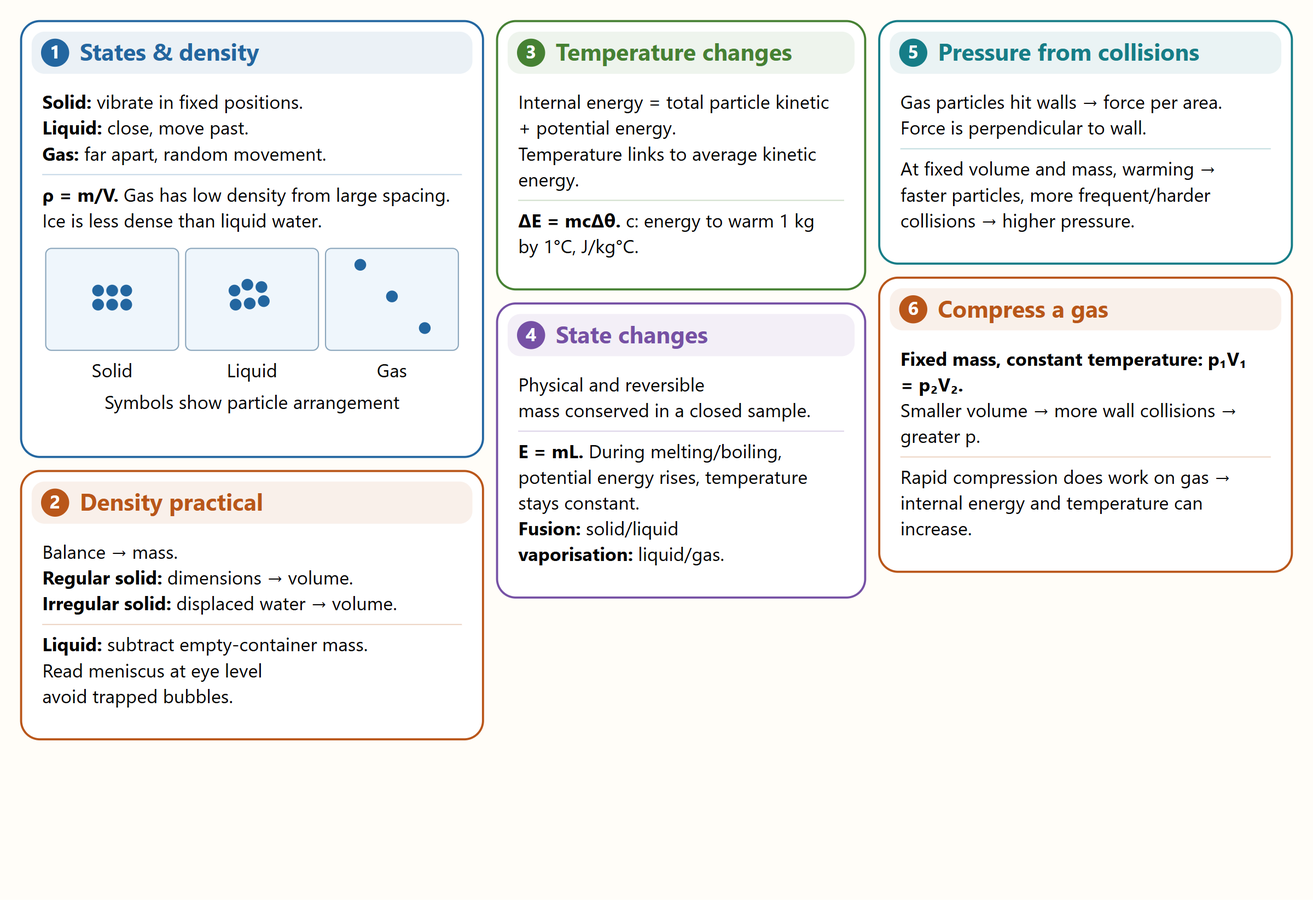
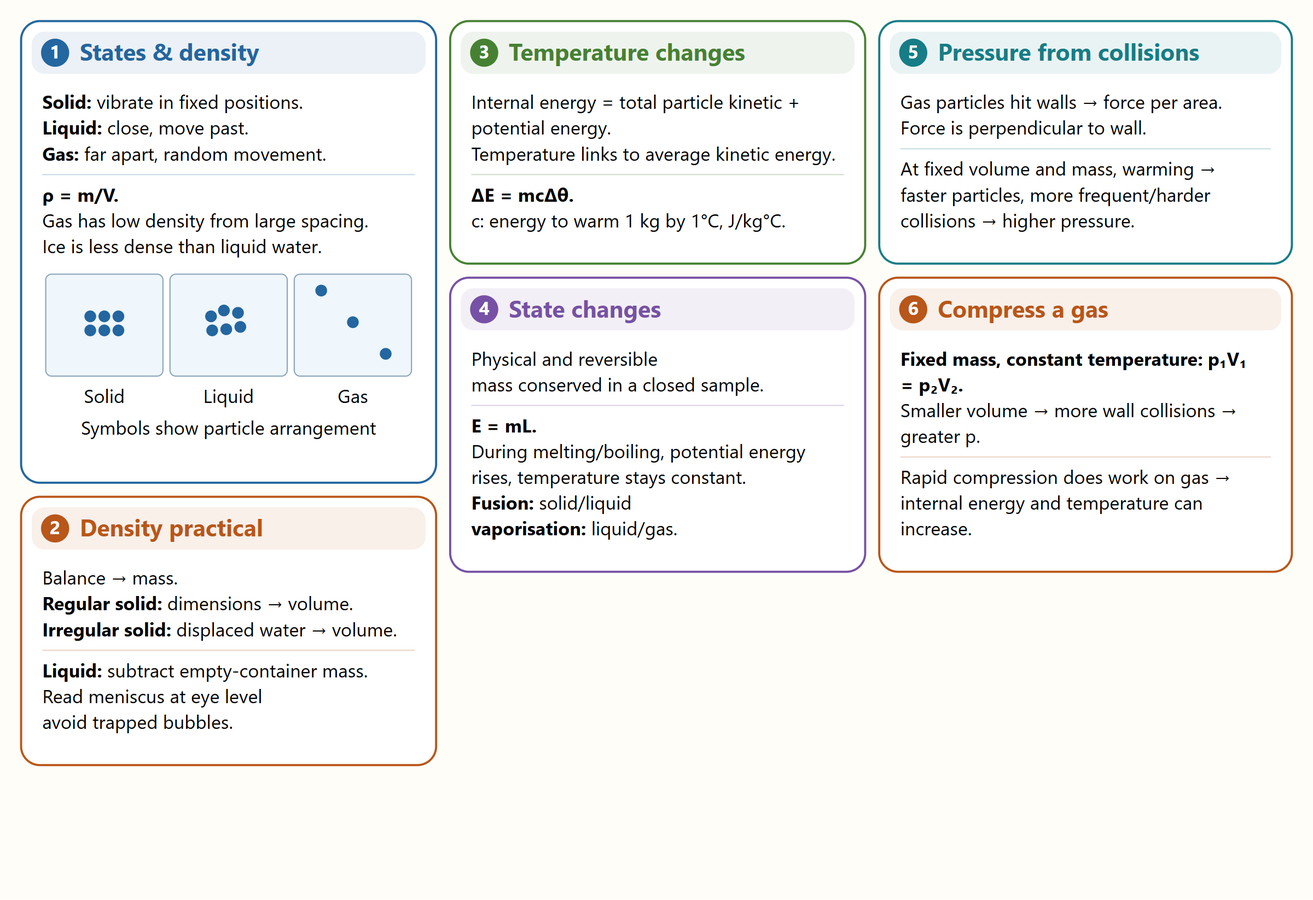
fix: review physics 03 mind-map equation layouts

diff --git a/library/resources/physics-aqa-particle-model-of-matter-01-states-and-density.html b/library/resources/physics-aqa-particle-model-of-matter-01-states-and-density.html
@@ -1,32 +1,48 @@
 <!doctype html><html lang="en"><head><meta charset="utf-8"><meta name="viewport" content="width=device-width, initial-scale=1"><title>States and density mind map · Study Buddy</title><link rel="stylesheet" href="../style.css"><link rel="stylesheet" href="../mindmaps.css"><script defer src="../mindmaps.js"></script></head><body class="inner-page subject-physics"><a class="skip" href="#main">Skip to content</a><header><a class="brand" href="../../index.html"><span class="brand-mark">G</span><span class="brand-name">Study Buddy</span></a><span class="exam">Summer 2027</span></header><div class="layout"><aside><p class="eyebrow">YOUR SUBJECTS</p><nav aria-label="Subjects"><a class="" href="../../Computer%20Science%20-%20AQA/index.html">Computer Science</a><a class="" href="../../English%20Language%20-%20Eduqas/index.html">English Language</a><a class="" href="../../English%20Literature%20-%20Eduqas/index.html">English Literature</a><a class="" href="../../Maths%20-%20Edexcel/index.html">Maths</a><a class="" href="../../Geography%20-%20OCR%20A/index.html">Geography</a><a class="" href="../../French%20-%20AQA/index.html">French</a><a class="" href="../../Biology%20-%20AQA/index.html">Biology</a><a class="" href="../../Chemistry%20-%20AQA/index.html">Chemistry</a><a class="selected" href="../../Physics%20-%20AQA/index.html">Physics</a></nav><p class="side-note">Build understanding.<br>Practise precise answers.</p></aside><main id="main"><nav class="breadcrumbs" aria-label="Breadcrumb"><a href="../../index.html">Subjects</a><span aria-hidden="true"> / </span><a href="../../Physics%20-%20AQA/index.html">Physics</a><span aria-hidden="true"> / </span><a href="../../Physics%20-%20AQA/03%20-%20Particle%20model%20of%20matter/index.html">Particle model of matter</a><span aria-hidden="true"> / </span><a href="physics-aqa-particle-model-of-matter-mind-maps.html">Mind maps</a></nav><div class="reader-tools"><a href="physics-aqa-particle-model-of-matter-mind-maps.html">← Back to mind maps</a><button onclick="window.print()">Print</button></div><h1>States and density</h1><button type="button" class="mindmap-open" data-mindmap-index="1">Open full screen</button><figure class="mindmap-view"><img src="../../Physics%20-%20AQA/03%20-%20Particle%20model%20of%20matter/Mind%20Maps/01-states-and-density.svg" alt="States and density revision map"></figure><details class="mindmap-text" id="text-version"><summary>Text version</summary><article class="reading"><h1>States &amp; density</h1>
 <h2>Three states</h2>
 <ul>
-<li>Solid: close, fixed arrangement; vibration. Liquid: close, irregular, able to flow.</li>
-<li>Gas: widely spaced, random motion; easily compressed. Individual particles do not expand when heated.</li>
+<li>Solid: close, fixed arrangement</li>
+<li>vibration.</li>
+<li>Liquid: close, irregular, able to flow.</li>
+<li>Gas: widely spaced, random motion</li>
+<li>easily compressed. Individual particles do not expand when heated.</li>
 </ul>
 <h2>Physical changes</h2>
 <ul>
-<li>Melting/freezing; boiling or evaporation/condensation; sublimation solid → gas.</li>
-<li>No new substance; reversing restores properties. Open-container mass loss may be escaping vapour.</li>
+<li>Melting/freezing</li>
+<li>boiling or evaporation/condensation</li>
+<li>sublimation solid → gas.</li>
+<li>No new substance</li>
+<li>reversing restores properties. Open-container mass loss may be escaping vapour.</li>
 </ul>
 <h2>Regular &amp; irregular solids</h2>
 <ul>
-<li>Weigh solid. Cuboid volume = lwh; cylinder = πr²h. Use ruler, callipers or micrometer.</li>
-<li>Irregular: fully submerge; final water volume − initial = solid volume. Displacement can is an alternative.</li>
+<li>Weigh solid.</li>
+<li>Cuboid volume = lwh</li>
+<li>cylinder = πr²h.</li>
+<li>Use ruler, callipers or micrometer.</li>
+<li>Irregular: fully submerge</li>
+<li>final water volume − initial = solid volume.</li>
+<li>Displacement can is an alternative.</li>
 </ul>
 <h2>Liquids &amp; good readings</h2>
 <ul>
 <li>Weigh empty dry cylinder, then cylinder + liquid. Subtract to find liquid mass.</li>
-<li>Read meniscus at eye level. Avoid bubbles/splashes; unsuitable for solids that dissolve or absorb water.</li>
+<li>Read meniscus at eye level. Avoid bubbles/splashes</li>
+<li>unsuitable for solids that dissolve or absorb water.</li>
 </ul>
 <h2>Density equation</h2>
 <ul>
-<li><strong>ρ = m/V; m = ρV; V = m/ρ.</strong></li>
+<li><strong>ρ = m/V</strong></li>
+<li><strong>m = ρV</strong></li>
+<li><strong>V = m/ρ.</strong></li>
 <li>240 g / 80 cm³ = 3.0 g/cm³ = <strong>3,000 kg/m³</strong>.</li>
-<li>1 cm³ = 10⁻⁶ m³. Keep units consistent.</li>
+<li>1 cm³ = 10⁻⁶ m³.</li>
+<li>Keep units consistent.</li>
 </ul>
 <h2>Explain changes</h2>
 <ul>
 <li>Fixed mass spreads over larger volume → lower density. Gas spacing explains low density.</li>
-<li>Do not claim every solid is denser than its liquid: ice is an exception. Repeats assess random variation; check zero errors.</li>
+<li>Do not claim every solid is denser than its liquid: ice is an exception. Repeats assess random variation</li>
+<li>check zero errors.</li>
 </ul></article></details><footer>GCSE preparation · 2027 · Your personal revision library</footer></main></div><script type="application/json" id="mindmap-catalog">[{"title": "Particle model overview", "image": "../../Physics%20-%20AQA/03%20-%20Particle%20model%20of%20matter/Mind%20Maps/00-particle-model-overview.svg", "thumbnail": "../../Physics%20-%20AQA/03%20-%20Particle%20model%20of%20matter/Mind%20Maps/00-particle-model-overview.png", "page": "physics-aqa-particle-model-of-matter-00-particle-model-overview.html"}, {"title": "States and density", "image": "../../Physics%20-%20AQA/03%20-%20Particle%20model%20of%20matter/Mind%20Maps/01-states-and-density.svg", "thumbnail": "../../Physics%20-%20AQA/03%20-%20Particle%20model%20of%20matter/Mind%20Maps/01-states-and-density.png", "page": "physics-aqa-particle-model-of-matter-01-states-and-density.html"}, {"title": "Heating and gas pressure", "image": "../../Physics%20-%20AQA/03%20-%20Particle%20model%20of%20matter/Mind%20Maps/02-heating-and-gas-pressure.svg", "thumbnail": "../../Physics%20-%20AQA/03%20-%20Particle%20model%20of%20matter/Mind%20Maps/02-heating-and-gas-pressure.png", "page": "physics-aqa-particle-model-of-matter-02-heating-and-gas-pressure.html"}]</script><dialog class="mindmap-dialog" id="mindmap-dialog" aria-labelledby="mindmap-dialog-title"><div class="mindmap-toolbar"><h2 id="mindmap-dialog-title">Mind maps</h2><div class="mindmap-controls"><button type="button" data-map-action="gallery">← All maps</button><span class="mindmap-sequence"><button type="button" data-map-action="previous" aria-label="Previous mind map">← Previous</button><output id="mindmap-position" aria-label="Mind map position" aria-live="polite"></output><button type="button" data-map-action="next" aria-label="Next mind map">Next →</button></span><span class="mindmap-zoom-controls"><button type="button" data-map-action="out" aria-label="Zoom out">−</button><output id="mindmap-zoom" aria-label="Zoom level" aria-live="polite">100%</output><button type="button" data-map-action="in" aria-label="Zoom in">+</button><button type="button" data-map-action="fit">Fit</button><button type="button" data-map-action="actual">100%</button></span><a id="mindmap-text-link" href="#">Text version</a><button type="button" data-map-action="print">Print</button><button type="button" data-map-action="close" aria-label="Close mind map">Close ×</button></div></div><div class="mindmap-modal-gallery"><div class="mindmap-grid"></div></div><div class="mindmap-canvas" tabindex="0" aria-label="Mind map; use zoom buttons and scroll to explore"><div class="mindmap-stage"><img id="mindmap-full-image" alt="" draggable="false"></div></div><p class="mindmap-load-error" role="alert" hidden>Unable to load this map. <a href="#">Open the map page</a></p></dialog></body></html>

diff --git a/library/resources/physics-aqa-particle-model-of-matter-00-particle-model-overview.html b/library/resources/physics-aqa-particle-model-of-matter-00-particle-model-overview.html
@@ -1,23 +1,34 @@
 <!doctype html><html lang="en"><head><meta charset="utf-8"><meta name="viewport" content="width=device-width, initial-scale=1"><title>Particle model overview mind map · Study Buddy</title><link rel="stylesheet" href="../style.css"><link rel="stylesheet" href="../mindmaps.css"><script defer src="../mindmaps.js"></script></head><body class="inner-page subject-physics"><a class="skip" href="#main">Skip to content</a><header><a class="brand" href="../../index.html"><span class="brand-mark">G</span><span class="brand-name">Study Buddy</span></a><span class="exam">Summer 2027</span></header><div class="layout"><aside><p class="eyebrow">YOUR SUBJECTS</p><nav aria-label="Subjects"><a class="" href="../../Computer%20Science%20-%20AQA/index.html">Computer Science</a><a class="" href="../../English%20Language%20-%20Eduqas/index.html">English Language</a><a class="" href="../../English%20Literature%20-%20Eduqas/index.html">English Literature</a><a class="" href="../../Maths%20-%20Edexcel/index.html">Maths</a><a class="" href="../../Geography%20-%20OCR%20A/index.html">Geography</a><a class="" href="../../French%20-%20AQA/index.html">French</a><a class="" href="../../Biology%20-%20AQA/index.html">Biology</a><a class="" href="../../Chemistry%20-%20AQA/index.html">Chemistry</a><a class="selected" href="../../Physics%20-%20AQA/index.html">Physics</a></nav><p class="side-note">Build understanding.<br>Practise precise answers.</p></aside><main id="main"><nav class="breadcrumbs" aria-label="Breadcrumb"><a href="../../index.html">Subjects</a><span aria-hidden="true"> / </span><a href="../../Physics%20-%20AQA/index.html">Physics</a><span aria-hidden="true"> / </span><a href="../../Physics%20-%20AQA/03%20-%20Particle%20model%20of%20matter/index.html">Particle model of matter</a><span aria-hidden="true"> / </span><a href="physics-aqa-particle-model-of-matter-mind-maps.html">Mind maps</a></nav><div class="reader-tools"><a href="physics-aqa-particle-model-of-matter-mind-maps.html">← Back to mind maps</a><button onclick="window.print()">Print</button></div><h1>Particle model overview</h1><button type="button" class="mindmap-open" data-mindmap-index="0">Open full screen</button><figure class="mindmap-view"><img src="../../Physics%20-%20AQA/03%20-%20Particle%20model%20of%20matter/Mind%20Maps/00-particle-model-overview.svg" alt="Particle model overview revision map"></figure><details class="mindmap-text" id="text-version"><summary>Text version</summary><article class="reading"><h1>Particle model overview</h1>
 <h2>States &amp; density</h2>
 <ul>
-<li>Solid: vibrate in fixed positions. Liquid: close, move past. Gas: far apart, random movement.</li>
-<li><strong>ρ = m/V.</strong> Gas has low density from large spacing. Ice is less dense than liquid water.</li>
+<li>Solid: vibrate in fixed positions.</li>
+<li>Liquid: close, move past.</li>
+<li>Gas: far apart, random movement.</li>
+<li><strong>ρ = m/V.</strong></li>
+<li>Gas has low density from large spacing.</li>
+<li>Ice is less dense than liquid water.</li>
 </ul>
 <h2>Density practical</h2>
 <ul>
 <li>Balance → mass. Regular solid: dimensions → volume. Irregular solid: displaced water → volume.</li>
-<li>Liquid: subtract empty-container mass. Read meniscus at eye level; avoid trapped bubbles.</li>
+<li>Liquid: subtract empty-container mass. Read meniscus at eye level</li>
+<li>avoid trapped bubbles.</li>
 </ul>
 <h2>Temperature changes</h2>
 <ul>
-<li>Internal energy = total particle kinetic + potential energy. Temperature links to average kinetic energy.</li>
-<li><strong>ΔE = mcΔθ.</strong> c: energy to warm 1 kg by 1°C, J/kg°C.</li>
+<li>Internal energy = total particle kinetic + potential energy.</li>
+<li>Temperature links to average kinetic energy.</li>
+<li><strong>ΔE = mcΔθ.</strong></li>
+<li>c: energy to warm 1 kg by 1°C, J/kg°C.</li>
 </ul>
 <h2>State changes</h2>
 <ul>
-<li>Physical and reversible; mass conserved in a closed sample.</li>
-<li><strong>E = mL.</strong> During melting/boiling, potential energy rises, temperature stays constant. Fusion: solid/liquid; vaporisation: liquid/gas.</li>
+<li>Physical and reversible</li>
+<li>mass conserved in a closed sample.</li>
+<li><strong>E = mL.</strong></li>
+<li>During melting/boiling, potential energy rises, temperature stays constant.</li>
+<li>Fusion: solid/liquid</li>
+<li>vaporisation: liquid/gas.</li>
 </ul>
 <h2>Pressure from collisions</h2>
 <ul>
@@ -26,6 +37,7 @@
 </ul>
 <h2>Compress a gas</h2>
 <ul>
-<li>Fixed mass, constant temperature: <strong>p₁V₁ = p₂V₂</strong>. Smaller volume → more wall collisions → greater p.</li>
+<li>Fixed mass, constant temperature: <strong>p₁V₁ = p₂V₂</strong>.</li>
+<li>Smaller volume → more wall collisions → greater p.</li>
 <li>Rapid compression does work on gas → internal energy and temperature can increase.</li>
 </ul></article></details><footer>GCSE preparation · 2027 · Your personal revision library</footer></main></div><script type="application/json" id="mindmap-catalog">[{"title": "Particle model overview", "image": "../../Physics%20-%20AQA/03%20-%20Particle%20model%20of%20matter/Mind%20Maps/00-particle-model-overview.svg", "thumbnail": "../../Physics%20-%20AQA/03%20-%20Particle%20model%20of%20matter/Mind%20Maps/00-particle-model-overview.png", "page": "physics-aqa-particle-model-of-matter-00-particle-model-overview.html"}, {"title": "States and density", "image": "../../Physics%20-%20AQA/03%20-%20Particle%20model%20of%20matter/Mind%20Maps/01-states-and-density.svg", "thumbnail": "../../Physics%20-%20AQA/03%20-%20Particle%20model%20of%20matter/Mind%20Maps/01-states-and-density.png", "page": "physics-aqa-particle-model-of-matter-01-states-and-density.html"}, {"title": "Heating and gas pressure", "image": "../../Physics%20-%20AQA/03%20-%20Particle%20model%20of%20matter/Mind%20Maps/02-heating-and-gas-pressure.svg", "thumbnail": "../../Physics%20-%20AQA/03%20-%20Particle%20model%20of%20matter/Mind%20Maps/02-heating-and-gas-pressure.png", "page": "physics-aqa-particle-model-of-matter-02-heating-and-gas-pressure.html"}]</script><dialog class="mindmap-dialog" id="mindmap-dialog" aria-labelledby="mindmap-dialog-title"><div class="mindmap-toolbar"><h2 id="mindmap-dialog-title">Mind maps</h2><div class="mindmap-controls"><button type="button" data-map-action="gallery">← All maps</button><span class="mindmap-sequence"><button type="button" data-map-action="previous" aria-label="Previous mind map">← Previous</button><output id="mindmap-position" aria-label="Mind map position" aria-live="polite"></output><button type="button" data-map-action="next" aria-label="Next mind map">Next →</button></span><span class="mindmap-zoom-controls"><button type="button" data-map-action="out" aria-label="Zoom out">−</button><output id="mindmap-zoom" aria-label="Zoom level" aria-live="polite">100%</output><button type="button" data-map-action="in" aria-label="Zoom in">+</button><button type="button" data-map-action="fit">Fit</button><button type="button" data-map-action="actual">100%</button></span><a id="mindmap-text-link" href="#">Text version</a><button type="button" data-map-action="print">Print</button><button type="button" data-map-action="close" aria-label="Close mind map">Close ×</button></div></div><div class="mindmap-modal-gallery"><div class="mindmap-grid"></div></div><div class="mindmap-canvas" tabindex="0" aria-label="Mind map; use zoom buttons and scroll to explore"><div class="mindmap-stage"><img id="mindmap-full-image" alt="" draggable="false"></div></div><p class="mindmap-load-error" role="alert" hidden>Unable to load this map. <a href="#">Open the map page</a></p></dialog></body></html>

diff --git a/library/resources/physics-aqa-particle-model-of-matter-02-heating-and-gas-pressure.html b/library/resources/physics-aqa-particle-model-of-matter-02-heating-and-gas-pressure.html
@@ -2,22 +2,29 @@
 <h2>Internal energy</h2>
 <ul>
 <li>Total kinetic + potential energy of all particles. Temperature is related to average kinetic energy.</li>
-<li><strong>ΔE = mcΔθ</strong> when temperature changes; use kg, J/kg°C and a temperature difference.</li>
+<li><strong>ΔE = mcΔθ</strong> when temperature changes</li>
+<li>use kg, J/kg°C and a temperature difference.</li>
 </ul>
 <h2>Latent heat</h2>
 <ul>
-<li><strong>E = mL</strong>, L in J/kg. Change state without changing temperature.</li>
+<li><strong>E = mL</strong></li>
+<li>L in J/kg.</li>
+<li>Change state without changing temperature.</li>
 <li>Melting/boiling: potential energy rises. Freezing/condensing releases energy. c and L describe different changes.</li>
 </ul>
 <h2>Heating graphs</h2>
 <ul>
-<li>Slopes: temperature rises. Plateaus: state changes while energy still enters.</li>
+<li>Slopes: temperature rises.</li>
+<li>Plateaus: state changes while energy still enters.</li>
 <li>Constant-power heating: longer time means more input energy. Cooling gives the reverse changes.</li>
 </ul>
 <h2>Combine stages</h2>
 <ul>
 <li>0.10 kg ice at 0°C → water at 20°C: mL + mcΔθ.</li>
-<li>With L = 334,000 and c = 4,200, total = <strong>41,800 J</strong>. At 100 W, ideal time = 418 s; losses add time.</li>
+<li>With L = 334,000 and c = 4,200</li>
+<li>total = <strong>41,800 J</strong>.</li>
+<li>At 100 W, ideal time = 418 s</li>
+<li>losses add time.</li>
 </ul>
 <h2>Fixed-volume heating</h2>
 <ul>
@@ -26,6 +33,7 @@
 </ul>
 <h2>Volume &amp; compression</h2>
 <ul>
-<li>Fixed mass, constant T: <strong>pV constant</strong>. 100 kPa × 60 cm³ = 150 kPa × 40 cm³.</li>
+<li>Fixed mass, constant T: <strong>pV constant</strong>.</li>
+<li>100 kPa × 60 cm³ = 150 kPa × 40 cm³.</li>
 <li>Rapid compression does work and may heat gas, so constant-T rule may not apply.</li>
 </ul></article></details><footer>GCSE preparation · 2027 · Your personal revision library</footer></main></div><script type="application/json" id="mindmap-catalog">[{"title": "Particle model overview", "image": "../../Physics%20-%20AQA/03%20-%20Particle%20model%20of%20matter/Mind%20Maps/00-particle-model-overview.svg", "thumbnail": "../../Physics%20-%20AQA/03%20-%20Particle%20model%20of%20matter/Mind%20Maps/00-particle-model-overview.png", "page": "physics-aqa-particle-model-of-matter-00-particle-model-overview.html"}, {"title": "States and density", "image": "../../Physics%20-%20AQA/03%20-%20Particle%20model%20of%20matter/Mind%20Maps/01-states-and-density.svg", "thumbnail": "../../Physics%20-%20AQA/03%20-%20Particle%20model%20of%20matter/Mind%20Maps/01-states-and-density.png", "page": "physics-aqa-particle-model-of-matter-01-states-and-density.html"}, {"title": "Heating and gas pressure", "image": "../../Physics%20-%20AQA/03%20-%20Particle%20model%20of%20matter/Mind%20Maps/02-heating-and-gas-pressure.svg", "thumbnail": "../../Physics%20-%20AQA/03%20-%20Particle%20model%20of%20matter/Mind%20Maps/02-heating-and-gas-pressure.png", "page": "physics-aqa-particle-model-of-matter-02-heating-and-gas-pressure.html"}]</script><dialog class="mindmap-dialog" id="mindmap-dialog" aria-labelledby="mindmap-dialog-title"><div class="mindmap-toolbar"><h2 id="mindmap-dialog-title">Mind maps</h2><div class="mindmap-controls"><button type="button" data-map-action="gallery">← All maps</button><span class="mindmap-sequence"><button type="button" data-map-action="previous" aria-label="Previous mind map">← Previous</button><output id="mindmap-position" aria-label="Mind map position" aria-live="polite"></output><button type="button" data-map-action="next" aria-label="Next mind map">Next →</button></span><span class="mindmap-zoom-controls"><button type="button" data-map-action="out" aria-label="Zoom out">−</button><output id="mindmap-zoom" aria-label="Zoom level" aria-live="polite">100%</output><button type="button" data-map-action="in" aria-label="Zoom in">+</button><button type="button" data-map-action="fit">Fit</button><button type="button" data-map-action="actual">100%</button></span><a id="mindmap-text-link" href="#">Text version</a><button type="button" data-map-action="print">Print</button><button type="button" data-map-action="close" aria-label="Close mind map">Close ×</button></div></div><div class="mindmap-modal-gallery"><div class="mindmap-grid"></div></div><div class="mindmap-canvas" tabindex="0" aria-label="Mind map; use zoom buttons and scroll to explore"><div class="mindmap-stage"><img id="mindmap-full-image" alt="" draggable="false"></div></div><p class="mindmap-load-error" role="alert" hidden>Unable to load this map. <a href="#">Open the map page</a></p></dialog></body></html>

diff --git a/Physics - AQA/03 - Particle model of matter/Mind Maps/01-states-and-density.md b/Physics - AQA/03 - Particle model of matter/Mind Maps/01-states-and-density.md
@@ -1,32 +1,36 @@
 # States & density
-
 ## Three states
-
-- Solid: close, fixed arrangement; vibration. Liquid: close, irregular, able to flow.
-- Gas: widely spaced, random motion; easily compressed. Individual particles do not expand when heated.
-
+- Solid: close, fixed arrangement
+- vibration.
+- Liquid: close, irregular, able to flow.
+- Gas: widely spaced, random motion
+- easily compressed. Individual particles do not expand when heated.
 ## Physical changes
-
-- Melting/freezing; boiling or evaporation/condensation; sublimation solid → gas.
-- No new substance; reversing restores properties. Open-container mass loss may be escaping vapour.
-
+- Melting/freezing
+- boiling or evaporation/condensation
+- sublimation solid → gas.
+- No new substance
+- reversing restores properties. Open-container mass loss may be escaping vapour.
 ## Regular & irregular solids
-
-- Weigh solid. Cuboid volume = lwh; cylinder = πr²h. Use ruler, callipers or micrometer.
-- Irregular: fully submerge; final water volume − initial = solid volume. Displacement can is an alternative.
-
+- Weigh solid.
+- Cuboid volume = lwh
+- cylinder = πr²h.
+- Use ruler, callipers or micrometer.
+- Irregular: fully submerge
+- final water volume − initial = solid volume.
+- Displacement can is an alternative.
 ## Liquids & good readings
-
 - Weigh empty dry cylinder, then cylinder + liquid. Subtract to find liquid mass.
-- Read meniscus at eye level. Avoid bubbles/splashes; unsuitable for solids that dissolve or absorb water.
-
+- Read meniscus at eye level. Avoid bubbles/splashes
+- unsuitable for solids that dissolve or absorb water.
 ## Density equation
-
-- **ρ = m/V; m = ρV; V = m/ρ.**
+- **ρ = m/V**
+- **m = ρV**
+- **V = m/ρ.**
 - 240 g / 80 cm³ = 3.0 g/cm³ = **3,000 kg/m³**.
-- 1 cm³ = 10⁻⁶ m³. Keep units consistent.
-
+- 1 cm³ = 10⁻⁶ m³.
+- Keep units consistent.
 ## Explain changes
-
 - Fixed mass spreads over larger volume → lower density. Gas spacing explains low density.
-- Do not claim every solid is denser than its liquid: ice is an exception. Repeats assess random variation; check zero errors.
+- Do not claim every solid is denser than its liquid: ice is an exception. Repeats assess random variation
+- check zero errors.

diff --git a/Physics - AQA/03 - Particle model of matter/Mind Maps/00-particle-model-overview.md b/Physics - AQA/03 - Particle model of matter/Mind Maps/00-particle-model-overview.md
@@ -1,31 +1,31 @@
 # Particle model overview
-
 ## States & density
-
-- Solid: vibrate in fixed positions. Liquid: close, move past. Gas: far apart, random movement.
-- **ρ = m/V.** Gas has low density from large spacing. Ice is less dense than liquid water.
-
+- Solid: vibrate in fixed positions.
+- Liquid: close, move past.
+- Gas: far apart, random movement.
+- **ρ = m/V.**
+- Gas has low density from large spacing.
+- Ice is less dense than liquid water.
 ## Density practical
-
 - Balance → mass. Regular solid: dimensions → volume. Irregular solid: displaced water → volume.
-- Liquid: subtract empty-container mass. Read meniscus at eye level; avoid trapped bubbles.
-
+- Liquid: subtract empty-container mass. Read meniscus at eye level
+- avoid trapped bubbles.
 ## Temperature changes
-
-- Internal energy = total particle kinetic + potential energy. Temperature links to average kinetic energy.
-- **ΔE = mcΔθ.** c: energy to warm 1 kg by 1°C, J/kg°C.
-
+- Internal energy = total particle kinetic + potential energy.
+- Temperature links to average kinetic energy.
+- **ΔE = mcΔθ.**
+- c: energy to warm 1 kg by 1°C, J/kg°C.
 ## State changes
-
-- Physical and reversible; mass conserved in a closed sample.
-- **E = mL.** During melting/boiling, potential energy rises, temperature stays constant. Fusion: solid/liquid; vaporisation: liquid/gas.
-
+- Physical and reversible
+- mass conserved in a closed sample.
+- **E = mL.**
+- During melting/boiling, potential energy rises, temperature stays constant.
+- Fusion: solid/liquid
+- vaporisation: liquid/gas.
 ## Pressure from collisions
-
 - Gas particles hit walls → force per area. Force is perpendicular to wall.
 - At fixed volume and mass, warming → faster particles, more frequent/harder collisions → higher pressure.
-
 ## Compress a gas
-
-- Fixed mass, constant temperature: **p₁V₁ = p₂V₂**. Smaller volume → more wall collisions → greater p.
+- Fixed mass, constant temperature: **p₁V₁ = p₂V₂**.
+- Smaller volume → more wall collisions → greater p.
 - Rapid compression does work on gas → internal energy and temperature can increase.

diff --git a/Physics - AQA/03 - Particle model of matter/Mind Maps/02-heating-and-gas-pressure.md b/Physics - AQA/03 - Particle model of matter/Mind Maps/02-heating-and-gas-pressure.md
@@ -1,31 +1,27 @@
 # Heating & gas pressure
-
 ## Internal energy
-
 - Total kinetic + potential energy of all particles. Temperature is related to average kinetic energy.
-- **ΔE = mcΔθ** when temperature changes; use kg, J/kg°C and a temperature difference.
-
+- **ΔE = mcΔθ** when temperature changes
+- use kg, J/kg°C and a temperature difference.
 ## Latent heat
-
-- **E = mL**, L in J/kg. Change state without changing temperature.
+- **E = mL**
+- L in J/kg.
+- Change state without changing temperature.
 - Melting/boiling: potential energy rises. Freezing/condensing releases energy. c and L describe different changes.
-
 ## Heating graphs
-
-- Slopes: temperature rises. Plateaus: state changes while energy still enters.
+- Slopes: temperature rises.
+- Plateaus: state changes while energy still enters.
 - Constant-power heating: longer time means more input energy. Cooling gives the reverse changes.
-
 ## Combine stages
-
 - 0.10 kg ice at 0°C → water at 20°C: mL + mcΔθ.
-- With L = 334,000 and c = 4,200, total = **41,800 J**. At 100 W, ideal time = 418 s; losses add time.
-
+- With L = 334,000 and c = 4,200
+- total = **41,800 J**.
+- At 100 W, ideal time = 418 s
+- losses add time.
 ## Fixed-volume heating
-
 - Fixed mass: hotter → higher average kinetic energy → faster particles.
 - More frequent wall collisions and larger momentum changes → greater force per area → greater pressure.
-
 ## Volume & compression
-
-- Fixed mass, constant T: **pV constant**. 100 kPa × 60 cm³ = 150 kPa × 40 cm³.
+- Fixed mass, constant T: **pV constant**.
+- 100 kPa × 60 cm³ = 150 kPa × 40 cm³.
 - Rapid compression does work and may heat gas, so constant-T rule may not apply.
